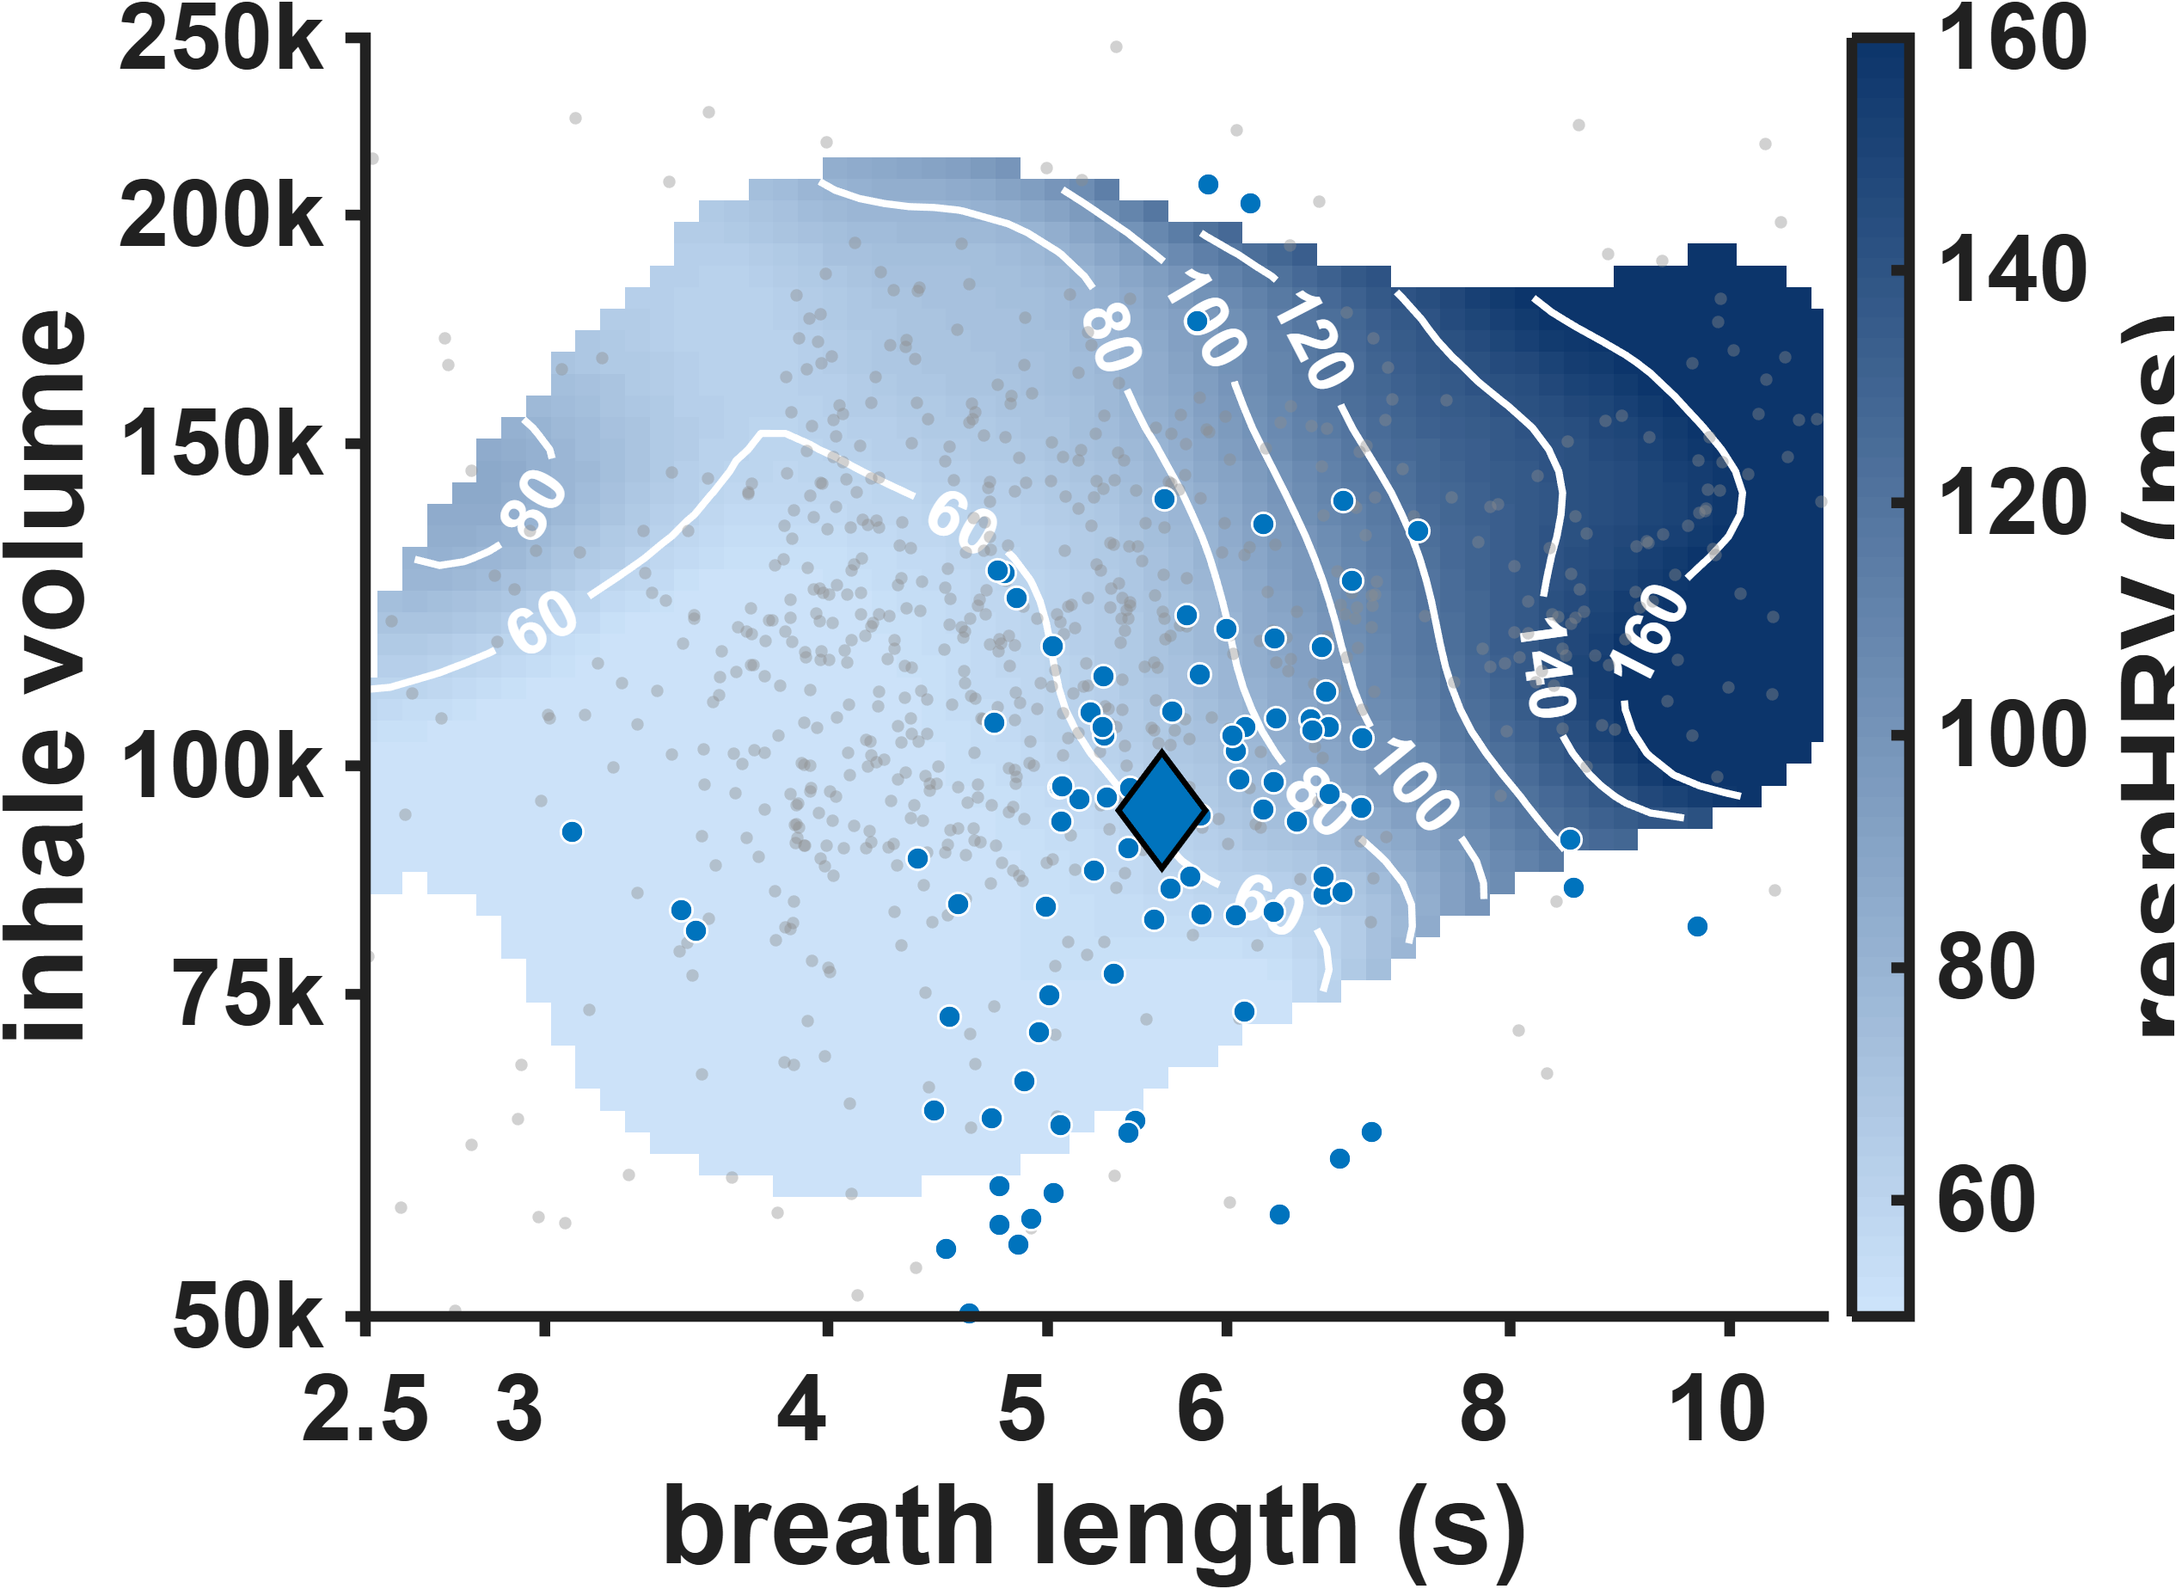
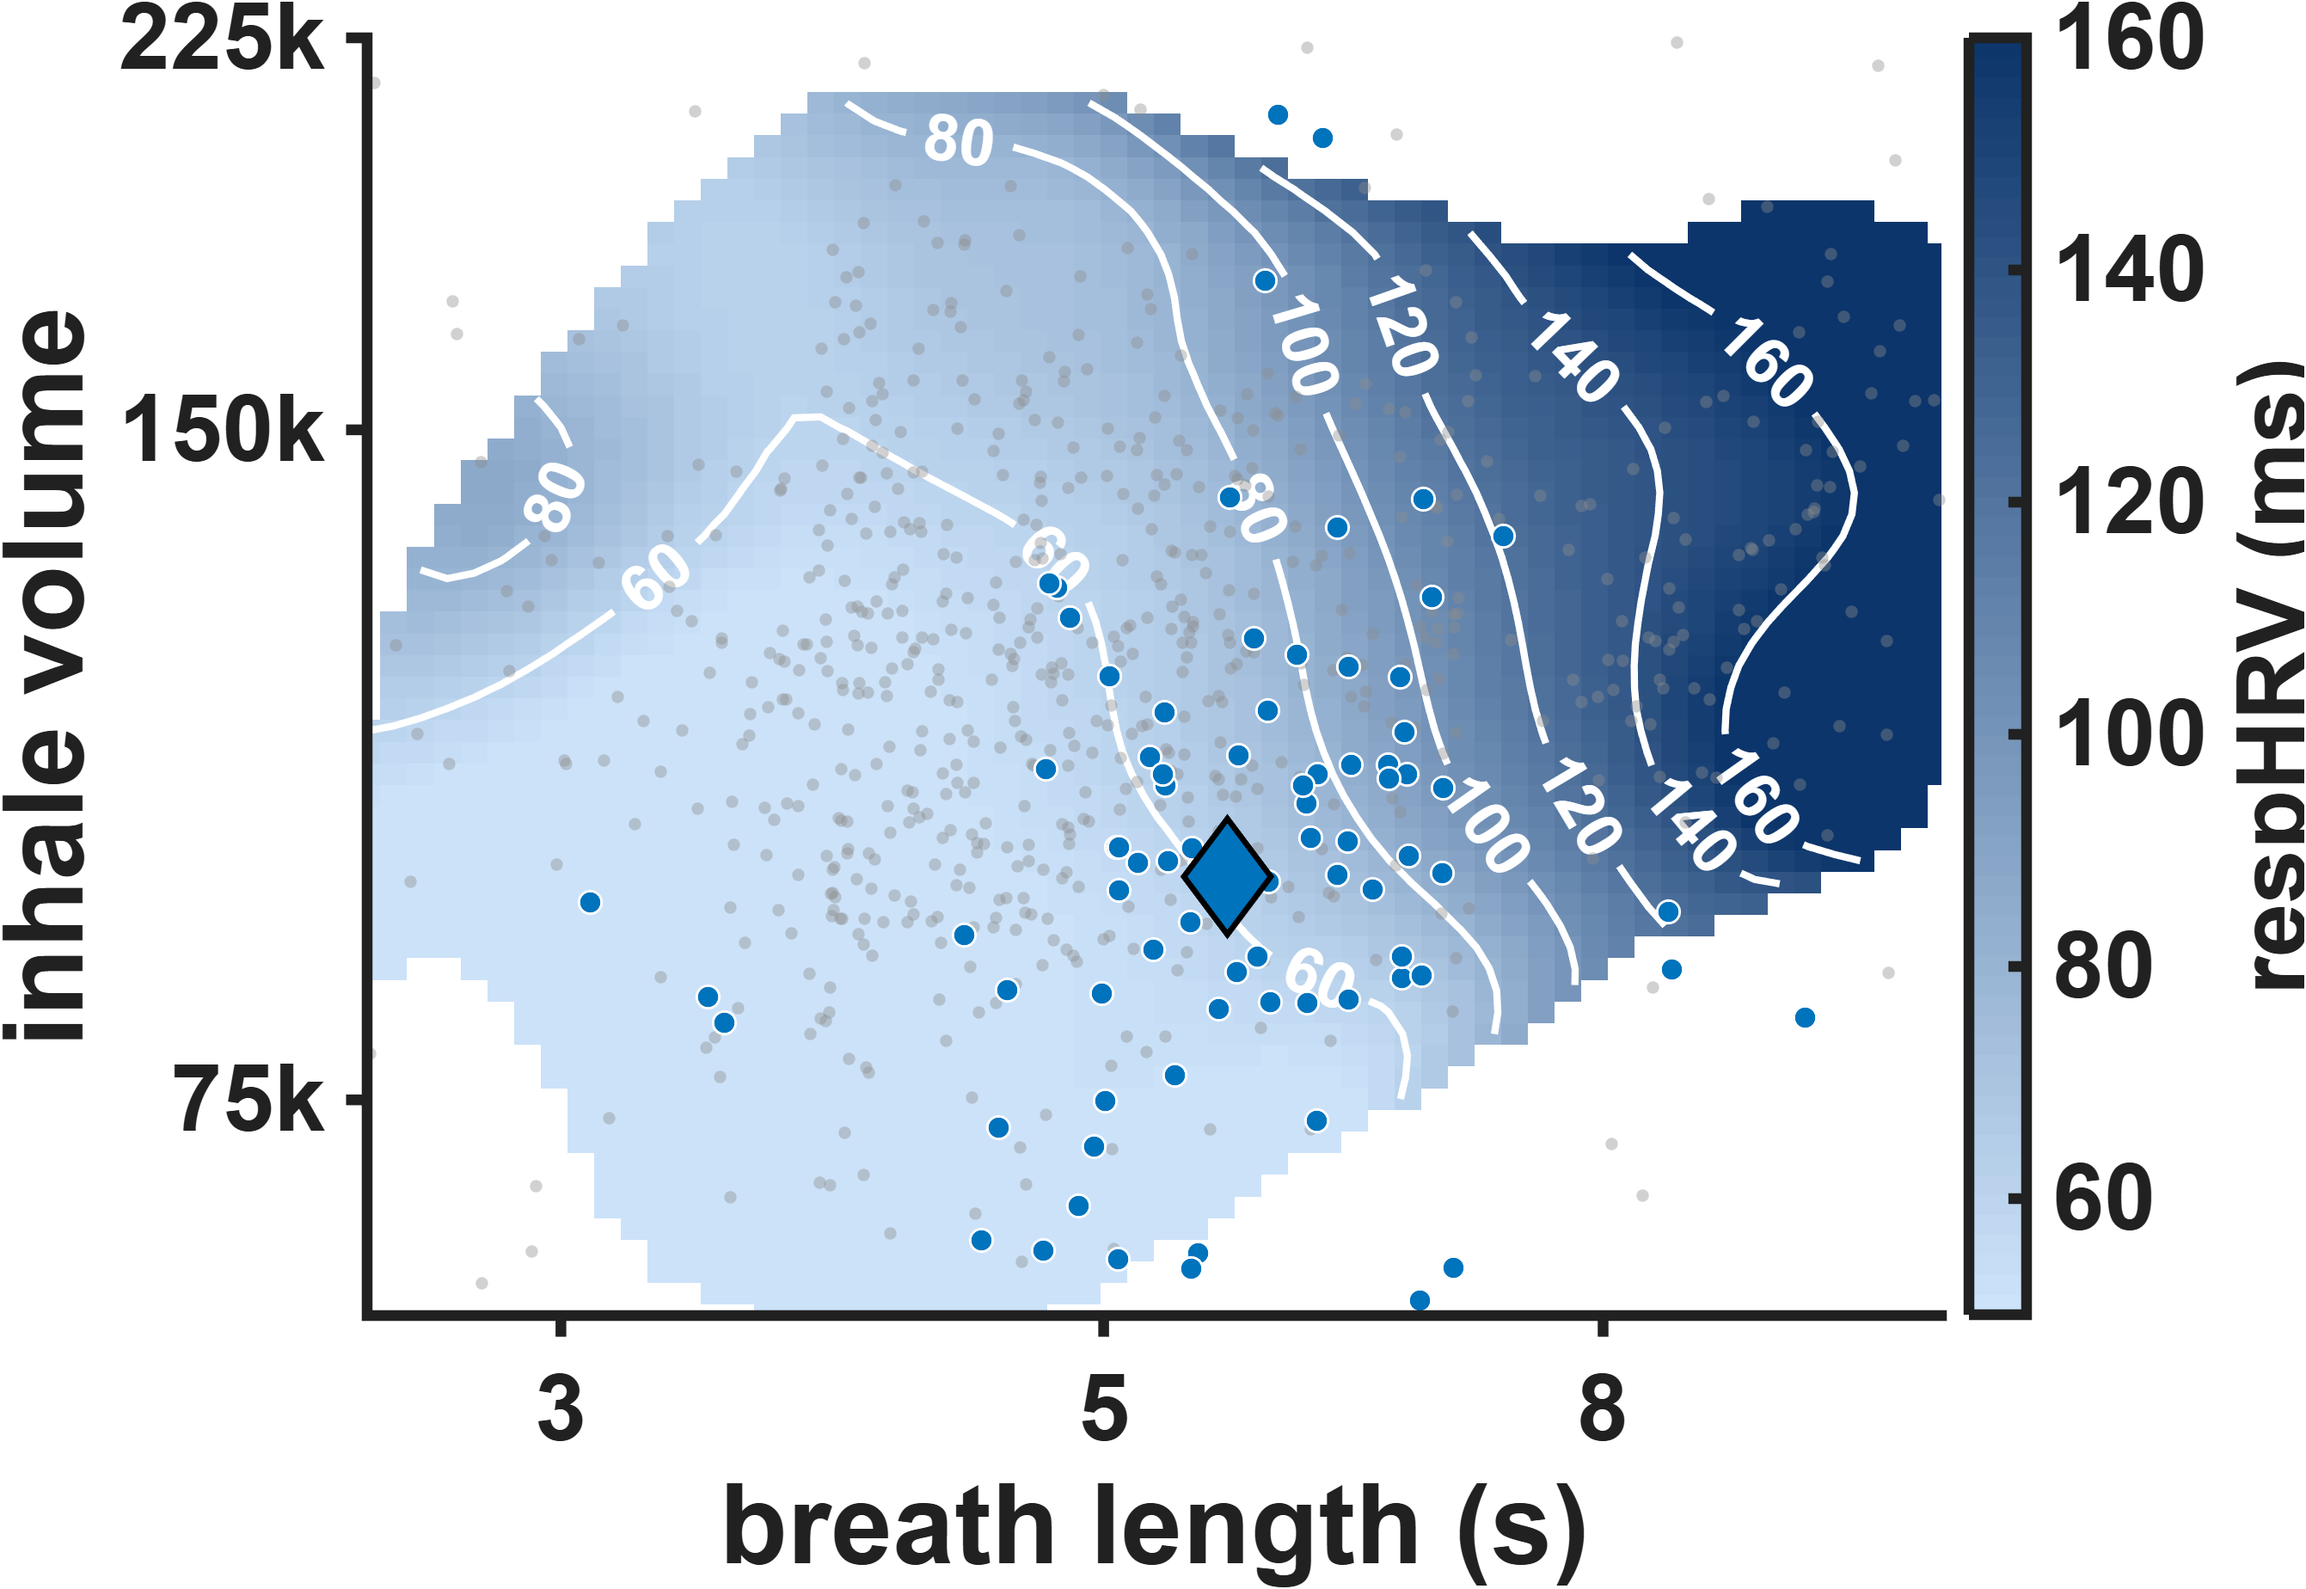
grant surfaces: sparser axis ticks, zoom Y to 60k-225k, colorbar labels kept in frame, error bar -> "Calibrated respHRV (ms)"

diff --git a/reports/pacedBreathing_grantFigures/grantFigs.m b/reports/pacedBreathing_grantFigures/grantFigs.m
@@ -124,7 +124,7 @@ Lp = J.len(selP); Ap = J.depth(selP); Rp = J.rsa(selP);
 muL = mean(log(Lp)); muA = mean(log(Ap)); sdL = std(log(Lp)); sdA = std(log(Ap));
 u = (log(Lp) - muL) / sdL; v = (log(Ap) - muA) / sdA; hbw = 0.35;
 gL = linspace(log(2.5), log(11), 60);
-gA = linspace(log(50000), log(250000), 60);      % Y AXIS LIMITED 50k-250k
+gA = linspace(log(60000), log(225000), 60);      % Y AXIS LIMITED 60k-225k
 [GL, GA] = meshgrid(gL, gA);
 GU = (GL - muL) / sdL; GV = (GA - muA) / sdA;
 Zhat = nan(size(GL));
@@ -155,13 +155,13 @@ for i = 1:numel(GL)
     if ws < 3 || ~isfinite(Zhat(i)), continue; end
     Zerr(i) = sum(w .* errF(okF)) / ws;
 end
-tickL = [2.5 3 4 5 6 8 10];
-tickA = [50000 75000 100000 150000 200000 250000];
+tickL = [3 5 8];
+tickA = [75000 150000 225000];
 tickALab = arrayfun(@(z) sprintf('%gk', z/1000), tickA, 'UniformOutput', false);
-inRange = @(z) z >= log(50000) & z <= log(250000);
+inRange = @(z) z >= log(60000) & z <= log(225000);
 
 %% ===== Figure 3: JW RSA x length surface =====
-fig = figure('Color', 'w', 'Units', 'inches', 'Position', [1 1 8.5 6.5]);
+fig = figure('Color', 'w', 'Units', 'inches', 'Position', [1 1 9 6.5]);
 ax = axes('Parent', fig);
 imagesc(ax, gL, gA, Zhat, 'AlphaData', ~isnan(Zhat)); set(ax, 'YDir', 'normal'); hold(ax, 'on');
 colormap(ax, blueRamp); clim(ax, [50 160]);
@@ -172,35 +172,35 @@ clabel(C, hc, 'Color', 'w', 'FontSize', 18, 'FontWeight', 'bold');
 gp = inRange(log(Ap)); scatter(ax, log(Lp(gp)), log(Ap(gp)), 12, [0.55 0.55 0.55], 'filled', 'MarkerFaceAlpha', 0.4);
 gf = inRange(log(Af)); scatter(ax, log(Lf(gf)), log(Af(gf)), 40, cATB, 'filled', 'MarkerEdgeColor', 'w', 'LineWidth', 0.7);
 plot(ax, log(mean(Lf)), log(mean(Af)), 'd', 'MarkerSize', 22, 'MarkerFaceColor', cATB, 'MarkerEdgeColor', 'k', 'LineWidth', 2);
-xlim(ax, [log(2.5) log(11)]); ylim(ax, [log(50000) log(250000)]);
+xlim(ax, [log(2.5) log(11)]); ylim(ax, [log(60000) log(225000)]);
 set(ax, 'XTick', log(tickL), 'XTickLabel', tickL, 'YTick', log(tickA), 'YTickLabel', tickALab);
 xlabel(ax, 'breath length (s)', 'FontSize', FS_LAB, 'FontWeight', 'bold');
 ylabel(ax, 'inhale volume', 'FontSize', FS_LAB, 'FontWeight', 'bold');
 styleAx(ax);
 set(ax, 'FontSize', FS_TICK_S); ax.XLabel.FontSize = FS_LAB_S; ax.YLabel.FontSize = FS_LAB_S;
-cb.FontSize = FS_TICK_S; cb.Label.FontSize = FS_LAB_S;
+cb.FontSize = FS_TICK_S; cb.Label.FontSize = FS_LAB;
 exportgraphics(fig, fullfile(OUT, 'JW_RSA_surface.png'), 'Resolution', 300, 'BackgroundColor', 'white');
 close(fig);
 
 %% ===== Figure 4: JW ATB prediction-error surface =====
-fig = figure('Color', 'w', 'Units', 'inches', 'Position', [1 1 8.5 6.5]);
+fig = figure('Color', 'w', 'Units', 'inches', 'Position', [1 1 9 6.5]);
 ax = axes('Parent', fig);
 lim = max(20, min(60, ceil(prctile(abs(Zerr(~isnan(Zerr))), 95) / 10) * 10));
 imagesc(ax, gL, gA, Zerr, 'AlphaData', ~isnan(Zerr)); set(ax, 'YDir', 'normal'); hold(ax, 'on');
 colormap(ax, divRamp); clim(ax, [-lim lim]);
-cb = colorbar(ax); cb.Label.String = 'observed - predicted respHRV (ms)'; cb.Label.FontSize = FS_LAB - 5;
+cb = colorbar(ax); cb.Label.String = 'Calibrated respHRV (ms)'; cb.Label.FontSize = FS_LAB - 5;
 cb.Label.FontWeight = 'bold'; cb.FontSize = FS_TICK; cb.LineWidth = AXLW;
 contour(ax, gL, gA, Zhat, 60:20:160, 'LineColor', [0.5 0.5 0.5], 'LineWidth', 1.5);
 gf = inRange(log(Af)) & okF;
 scatter(ax, log(Lf(gf)), log(Af(gf)), 46, errF(gf), 'filled', 'MarkerEdgeColor', 'k', 'LineWidth', 0.7);
 plot(ax, log(mean(Lf)), log(mean(Af)), 'd', 'MarkerSize', 22, 'MarkerFaceColor', 'none', 'MarkerEdgeColor', 'k', 'LineWidth', 2.5);
-xlim(ax, [log(2.5) log(11)]); ylim(ax, [log(50000) log(250000)]);
+xlim(ax, [log(2.5) log(11)]); ylim(ax, [log(60000) log(225000)]);
 set(ax, 'XTick', log(tickL), 'XTickLabel', tickL, 'YTick', log(tickA), 'YTickLabel', tickALab);
 xlabel(ax, 'breath length (s)', 'FontSize', FS_LAB, 'FontWeight', 'bold');
 ylabel(ax, 'inhale volume', 'FontSize', FS_LAB, 'FontWeight', 'bold');
 styleAx(ax);
 set(ax, 'FontSize', FS_TICK_S); ax.XLabel.FontSize = FS_LAB_S; ax.YLabel.FontSize = FS_LAB_S;
-cb.FontSize = FS_TICK_S; cb.Label.FontSize = FS_LAB_S - 6;
+cb.FontSize = FS_TICK_S; cb.Label.FontSize = FS_LAB;
 exportgraphics(fig, fullfile(OUT, 'JW_ATB_error_surface.png'), 'Resolution', 300, 'BackgroundColor', 'white');
 close(fig);
 
